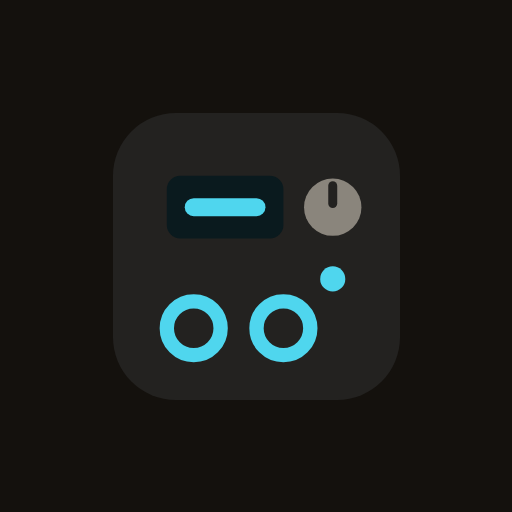
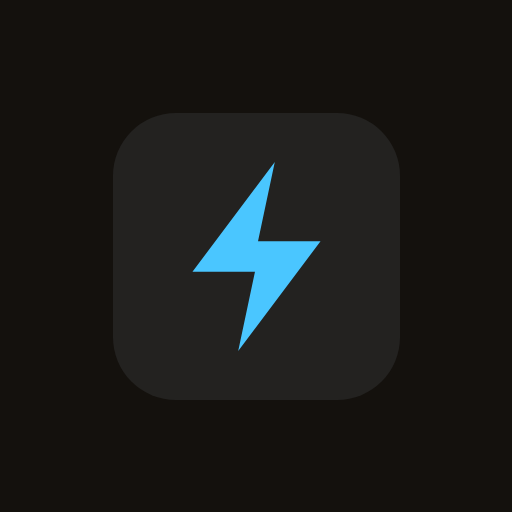
The version moves to the Patch Manager, and the mark becomes the bolt
The deck is upstream's file; the Patch Manager is ours. The version sits
flush right on its FILE row now, and SwitcherUnit.tsx is byte-identical
to upstream again — the owner would rather not grow the diff in his code
for something that reads better here anyway, beside the panel a support
log is usually about.

The icon is the lightning bolt the app already uses to reload itself,
filled rather than stroked because an outline closes to a blob at 16px,
in the blue it actually shows on screen (#2563b0 brightened by the dark
theme). The GP-200 unit art was upstream's mark; this one is ours.

Changed region(s): [[0.3125, 0.3125, 0.7188, 0.7188], [0.625, 0.5, 0.6875, 0.5938]]

diff --git a/src/components/board/board.css b/src/components/board/board.css
@@ -1641,20 +1641,6 @@
   align-items: center;
   margin-left: auto;
 }
-/* The fork's version, left of FX LOOP: present but quiet, and it must never
-   compete with the buttons beside it. */
-.board-view .deck-version {
-  font-family: var(--font-jetbrains-mono), monospace;
-  /* The same type as the buttons beside it (.deck-btn), muted rather than
-     smaller, so it sits in the row without competing with it. */
-  font-size: 10px;
-  font-weight: 800;
-  letter-spacing: 0.1em;
-  color: var(--text-muted);
-  white-space: nowrap;
-  margin-right: 20px;
-  user-select: text;
-}
 .board-view .deck-btn {
   display: inline-flex;
   align-items: center;
@@ -2513,12 +2499,7 @@
   .board-view .deck-actions .deck-btn {
     flex: 1 0 auto;
   }
-  .board-view .deck-actions .deck-version {
-    order: 99;
-    flex: 1 0 100%;
-    text-align: right;
-    margin-right: 0;
-  }
+
 
   /* deck popovers: fixed bottom sheets clamped to the viewport */
   .board-view .deck-pop,
@@ -2679,11 +2660,7 @@
   .board-view .deck .deck-btn .db-label {
     white-space: nowrap;
   }
-  /* Follows the labels down, so the two stay the same size at every width. */
-  .board-view .deck-version {
-    font-size: 8px;
-    letter-spacing: 0.06em;
-  }
+
   .board-view .board-topbar .deck-btn.quiet,
   .board-view .deck .deck-btn.quiet {
     padding: 5px;

diff --git a/tests/unit/PatchManagerSheet.test.tsx b/tests/unit/PatchManagerSheet.test.tsx
@@ -1050,3 +1050,19 @@ describe('PatchManagerSheet: saving a log', () => {
     expect(screen.queryByRole('button', { name: /SAVE LOG/ })).toBeNull();
   });
 });
+
+describe('PatchManagerSheet: the fork version', () => {
+  it('shows the version where there is one, and nothing where there is not', () => {
+    renderSheet();
+    const shown = screen.queryByTitle(/GP200 Studio PM — commit/);
+    // A clone with no pm.* tag reachable (a shallow CI checkout) has no
+    // version, and the row must simply omit it rather than render "null".
+    if (__APP_VERSION__ === null) {
+      expect(shown).toBeNull();
+      return;
+    }
+    expect(shown).not.toBeNull();
+    expect(shown!.textContent).toMatch(/^pm\.\d+\.\d+\.\d+/);
+    expect(shown!.className).toContain('ml-auto'); // flush right on the row
+  });
+});

diff --git a/src/components/PatchManagerSheet.tsx b/src/components/PatchManagerSheet.tsx
@@ -557,6 +557,18 @@ export function PatchManagerSheet({
         >
           PRINT
         </Button>
+        {/* The fork's version, flush right on this row. It belongs with the
+            Patch Manager rather than the deck: this panel is the fork's own
+            work, and the version is what a support log leads with. */}
+        {__APP_VERSION__ && (
+          <span
+            className="font-mono-display text-caption ml-auto"
+            style={{ color: 'var(--text-muted)', whiteSpace: 'nowrap' }}
+            title={`GP200 Studio PM — commit ${__APP_VERSION__.commit}`}
+          >
+            {__APP_VERSION__.label}
+          </span>
+        )}
         <input
           ref={editorFileInputRef}
           type="file"

diff --git a/src/components/board/SwitcherUnit.tsx b/src/components/board/SwitcherUnit.tsx
@@ -284,11 +284,6 @@ export function SwitcherUnit({
       <AudioMeters />
 
       <div className="deck-actions">
-        {__APP_VERSION__ && (
-          <span className="deck-version" title={`GP200 Studio PM — commit ${__APP_VERSION__.commit}`}>
-            {__APP_VERSION__.label}
-          </span>
-        )}
         <button type="button" className="deck-btn" onClick={onOpenFxLoop}>
           <ActionIcon name="fxloop" />
           <span className="db-label">FX LOOP</span>
